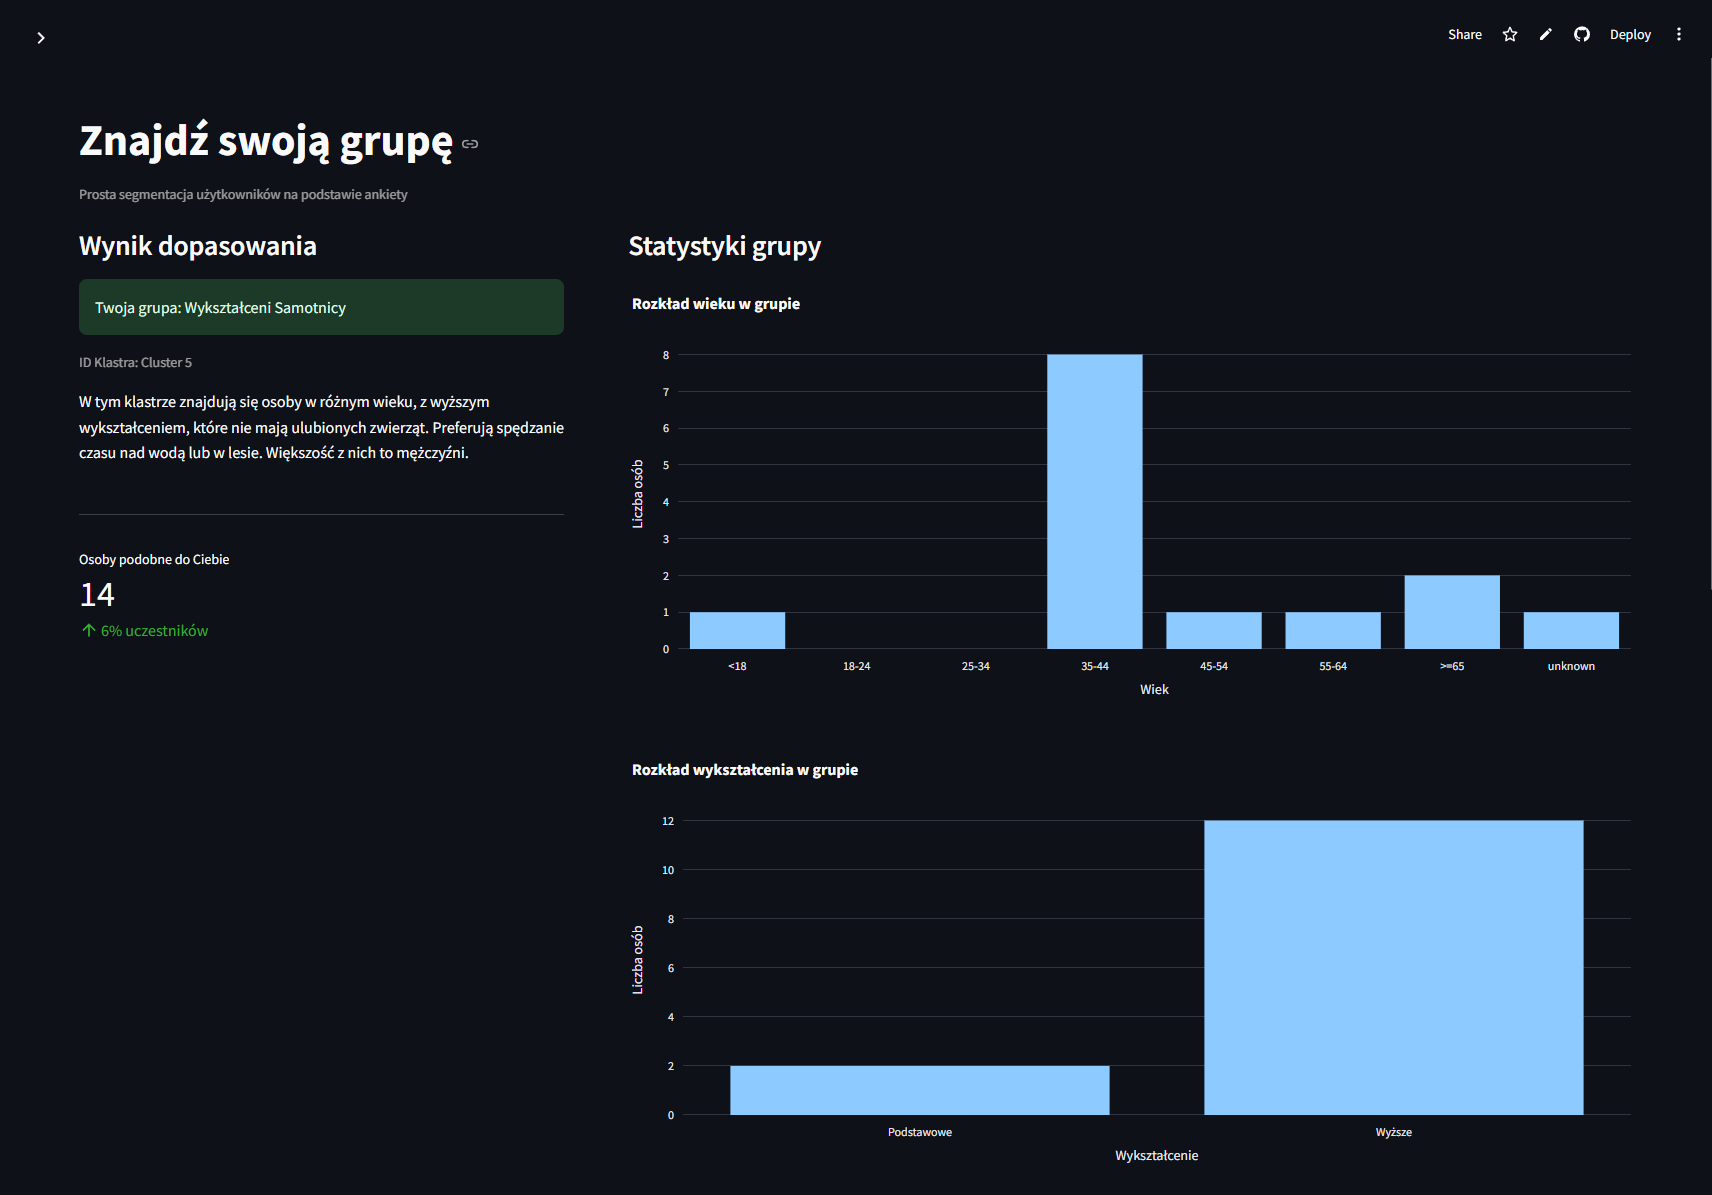
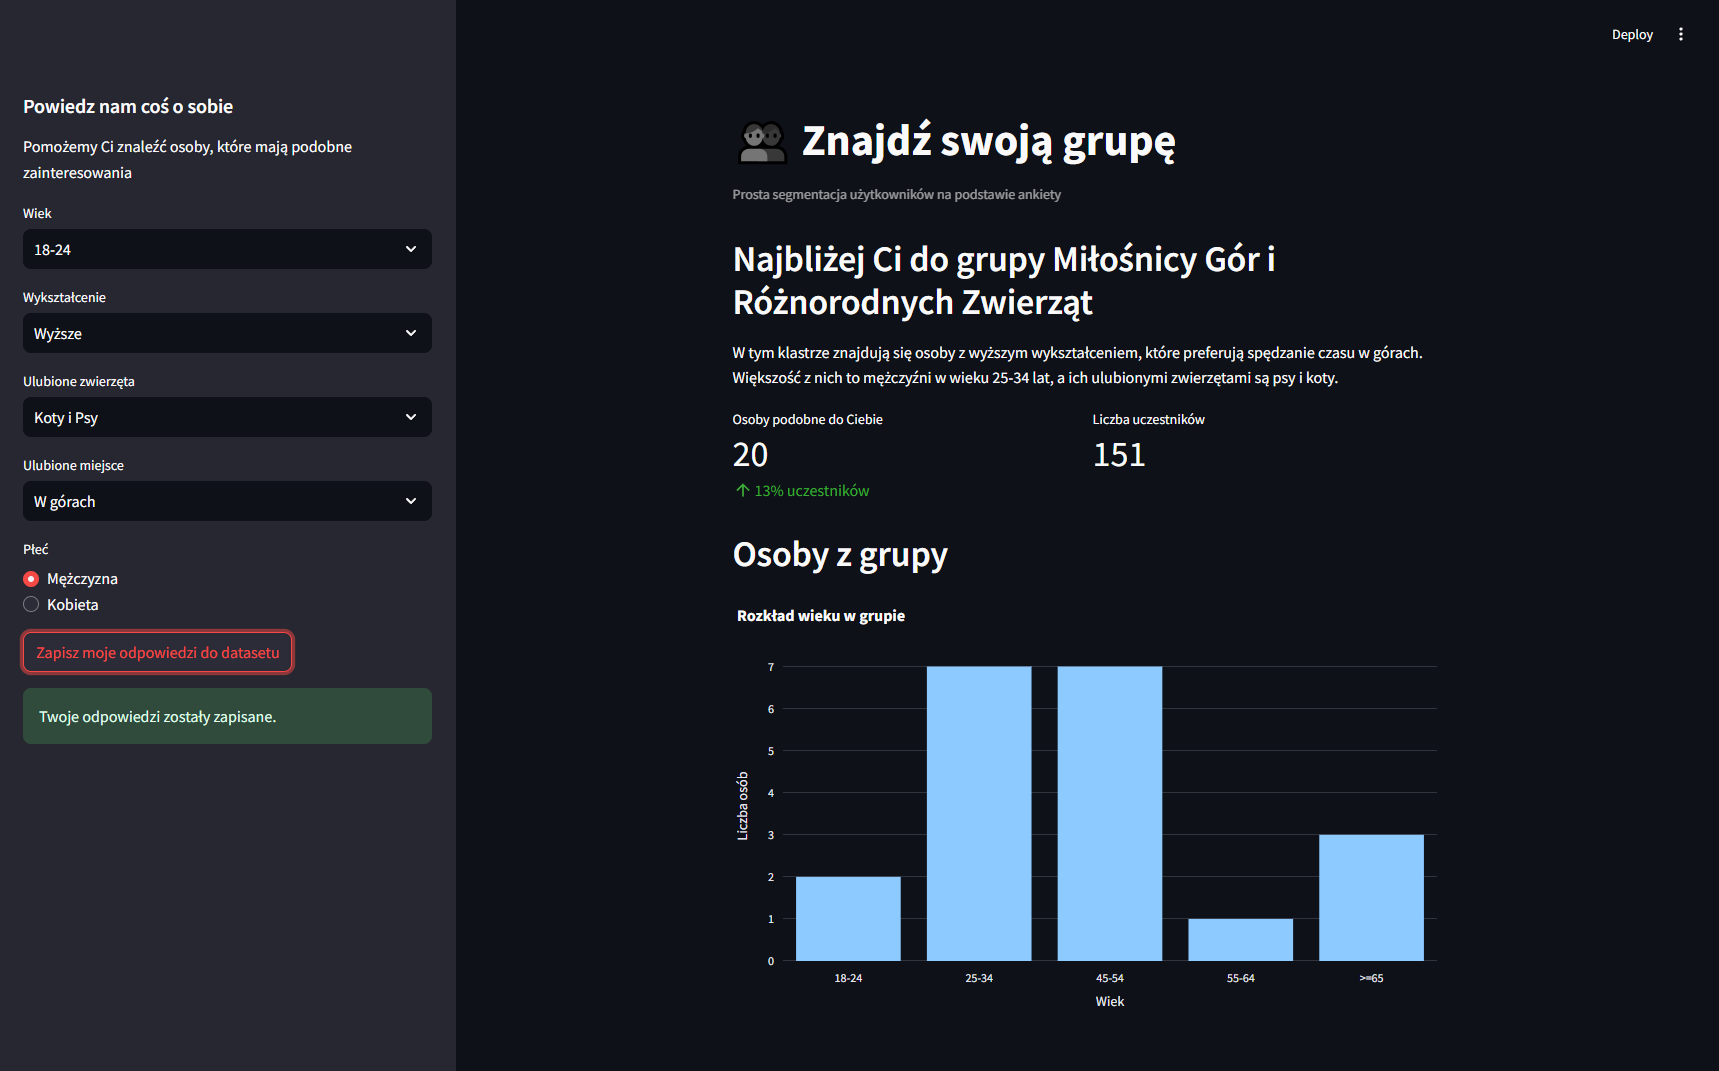
Update Find Friends clustering app

diff --git a/app.py b/app.py
@@ -10,6 +10,8 @@ DATA = 'welcome_survey_simple_v1.csv'
 
 CLUSTER_NAMES_AND_DESCRIPTIONS = 'welcome_survey_cluster_names_and_descriptions_v1.json'
 
+if "save_message" not in st.session_state:
+    st.session_state.save_message = False
 
 @st.cache_data
 def get_model():
@@ -47,6 +49,24 @@ with st.sidebar:
         }
     ])
 
+    if st.button("Zapisz moje odpowiedzi do datasetu"):
+        person_df.to_csv(
+            DATA,
+            sep=";",
+            mode="a",
+            header=False,
+            index=False,
+        )
+
+        get_all_participants.clear()
+
+        st.session_state.save_message = True
+        st.rerun()
+
+    if st.session_state.save_message:
+        st.success("Twoje odpowiedzi zostały zapisane.")
+        st.session_state.save_message = False
+
 model = get_model()
 all_df = get_all_participants()
 cluster_names_and_descriptions = get_cluster_names_and_descriptions()
@@ -54,10 +74,31 @@ cluster_names_and_descriptions = get_cluster_names_and_descriptions()
 predicted_cluster_id = predict_model(model, data=person_df)["Cluster"].values[0]
 predicted_cluster_data = cluster_names_and_descriptions[predicted_cluster_id]
 
+st.title("👥 Znajdź swoją grupę")
+st.caption("Prosta segmentacja użytkowników na podstawie ankiety")
+
 st.header(f"Najbliżej Ci do grupy {predicted_cluster_data['name']}")
 st.markdown(predicted_cluster_data['description'])
+
 same_cluster_df = all_df[all_df["Cluster"] == predicted_cluster_id]
-st.metric("Liczba twoich znajomych", len(same_cluster_df))
+
+similar_users = len(same_cluster_df)
+similarity_percentage = similar_users / len(all_df) * 100
+
+col1, col2 = st.columns(2)
+
+with col1:
+    st.metric(
+        "Osoby podobne do Ciebie",
+        similar_users,
+        f"{similarity_percentage:.0f}% uczestników",
+    )
+
+with col2:
+    st.metric(
+        "Liczba uczestników",
+        len(all_df),
+    )
 
 st.header("Osoby z grupy")
 fig = px.histogram(same_cluster_df.sort_values("age"), x="age")

diff --git a/README.md b/README.md
@@ -26,7 +26,7 @@ The application presents interactive visualizations showing the age and educatio
 
 ### Additional Group Statistics
 
-Additional visualizations show the distribution of favorite places and gender within the assigned cluster.
+Additional visualizations show the distribution of favorite animals, favorite places, and gender within the assigned cluster.
 
 ![Additional Group Statistics](screenshots/screenshot_statistics_2.png)
 
@@ -44,7 +44,15 @@ The user provides information about:
 
 The application converts the responses into a Pandas DataFrame and passes them to a trained clustering pipeline.
 
-The model assigns the user to one of the predefined clusters. The application then displays the cluster name, its description, the number of users in the same cluster, and visual statistics describing the group.
+The model assigns the user to one of the predefined clusters. The application then displays:
+
+- the name and description of the assigned cluster
+- the number of users in the same cluster
+- the percentage of participants belonging to the same cluster
+- the total number of participants
+- visual statistics describing the group
+
+Users can also save their survey responses to the dataset directly from the application.
 
 The clustering workflow was developed using PyCaret.
 
@@ -54,6 +62,10 @@ The clustering workflow was developed using PyCaret.
 - User cluster prediction
 - Cluster names and descriptions
 - Number of users in the assigned cluster
+- Percentage of users similar to the current user
+- Total number of participants
+- Saving new survey responses to the dataset
+- Confirmation message after saving responses
 - Age distribution visualization
 - Education level distribution
 - Favorite animals distribution
@@ -88,18 +100,25 @@ The application combines a Streamlit user interface with a trained clustering pi
       ▼
     Pandas DataFrame
       │
-      ▼
-    PyCaret Clustering Pipeline
+      ├──► Cluster Prediction
       │
-      ▼
-    Predicted Cluster
-      │
-      ├──► Cluster Name & Description
-      │
-      └──► Users from the Same Cluster
-                 │
-                 ▼
-           Plotly Visualizations
+      └──► Optional Dataset Update
+                    │
+                    ▼
+              CSV Dataset
+                    │
+                    ▼
+          PyCaret Clustering Pipeline
+                    │
+                    ▼
+              Predicted Cluster
+                    │
+                    ├──► Cluster Name & Description
+                    │
+                    └──► Users from the Same Cluster
+                               │
+                               ▼
+                         Plotly Visualizations
 
 ## 🤖 Machine Learning Layer
 
@@ -161,8 +180,11 @@ The JSON file contains information describing the characteristics of each cluste
 4. The application loads the corresponding cluster name and description.
 5. The dataset is processed with the same clustering model.
 6. Users belonging to the predicted cluster are selected.
-7. The application calculates the number of users in the group.
-8. Plotly visualizations present the characteristics of the group.
+7. The application calculates the number and percentage of users in the same cluster.
+8. The application displays the total number of participants.
+9. The user can optionally save their responses to the dataset.
+10. The dataset processing cache is cleared after a new response is saved.
+11. Plotly visualizations present the characteristics of the group.
 
 ## 🔍 Example Workflow
 
@@ -183,11 +205,15 @@ The result includes:
 - cluster name
 - cluster description
 - number of users in the cluster
+- percentage of participants belonging to the cluster
+- total number of participants
 - age distribution
 - education distribution
 - favorite animals distribution
 - favorite place distribution
 - gender distribution
+
+The user can also save their responses to the dataset using the button in the sidebar.
 
 ## 🚀 Installation
 
